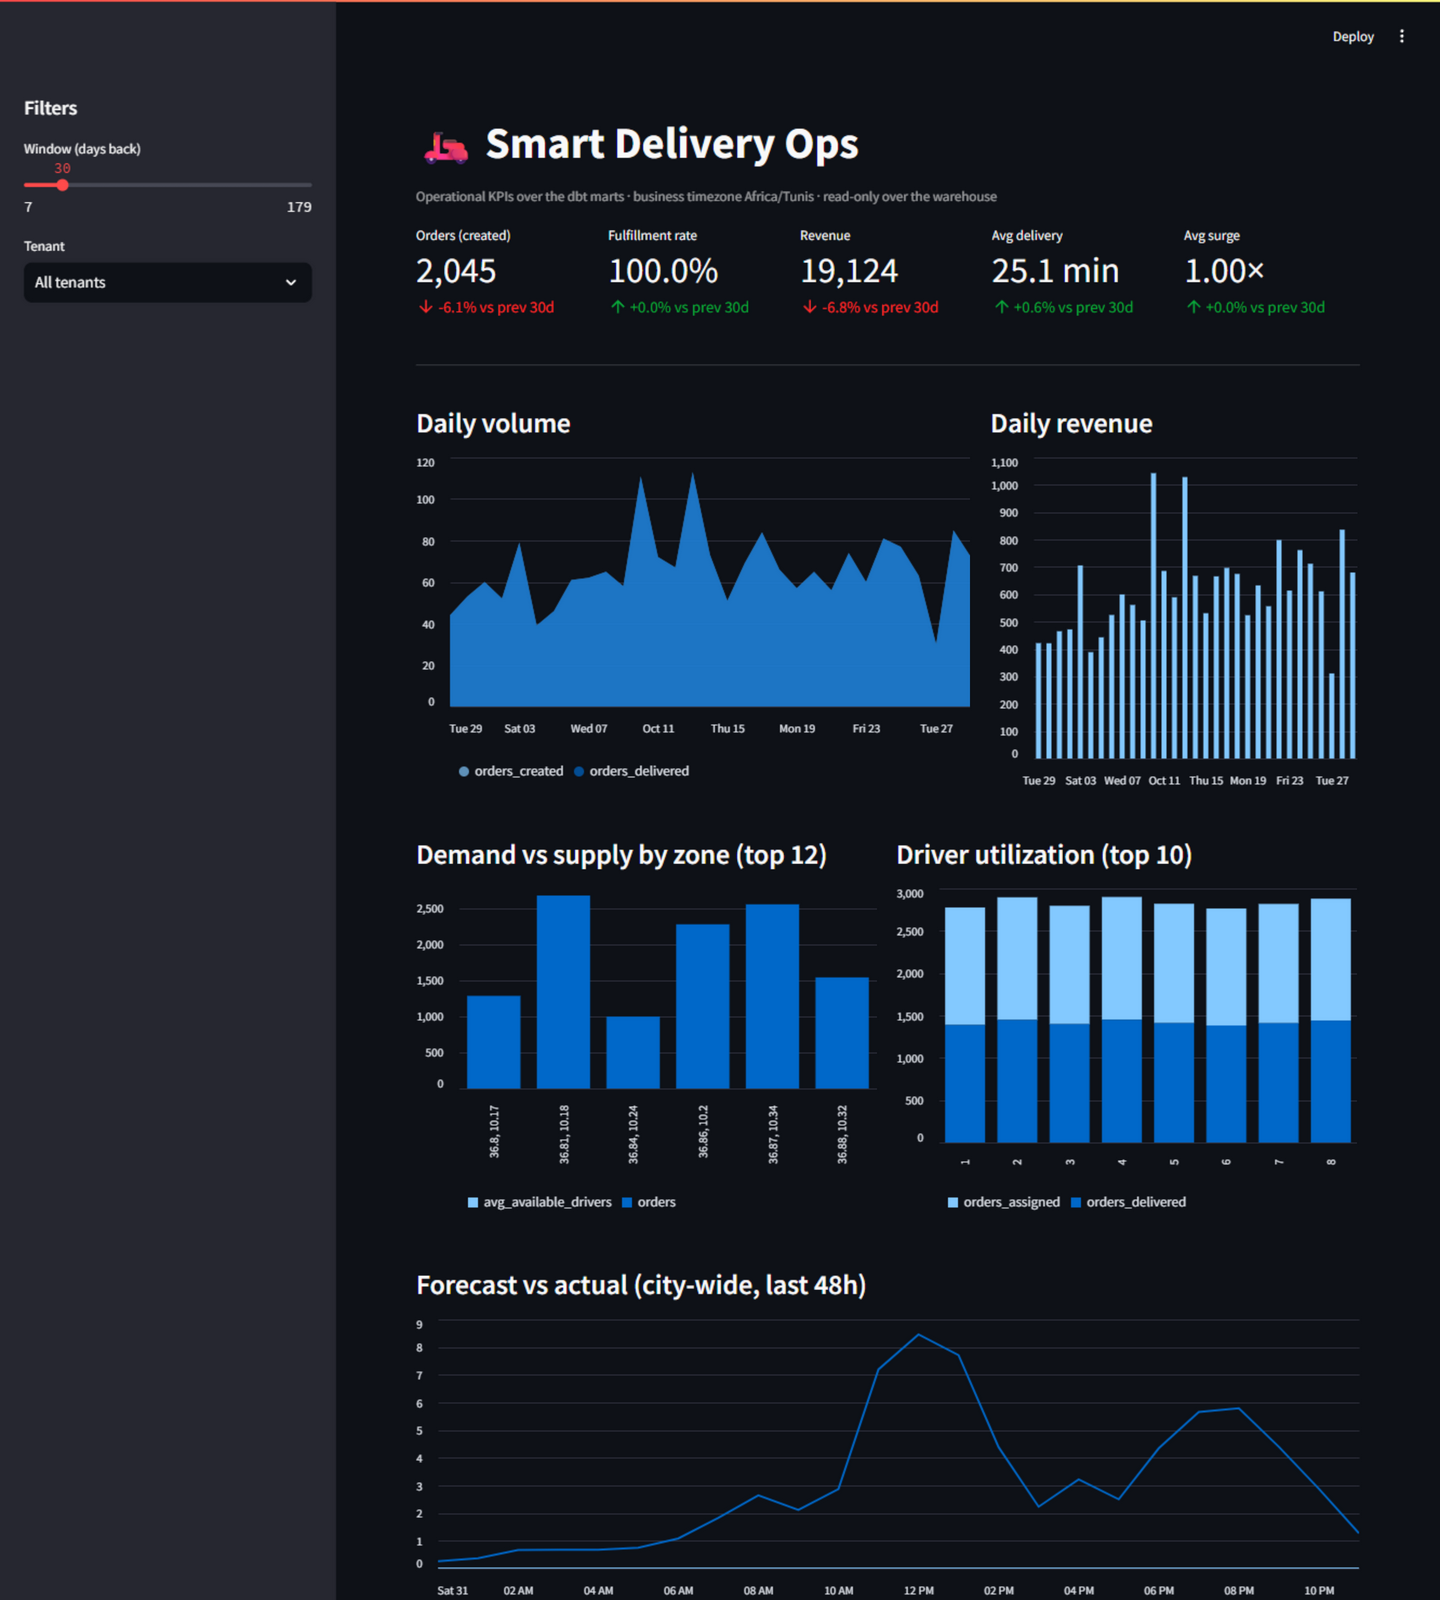
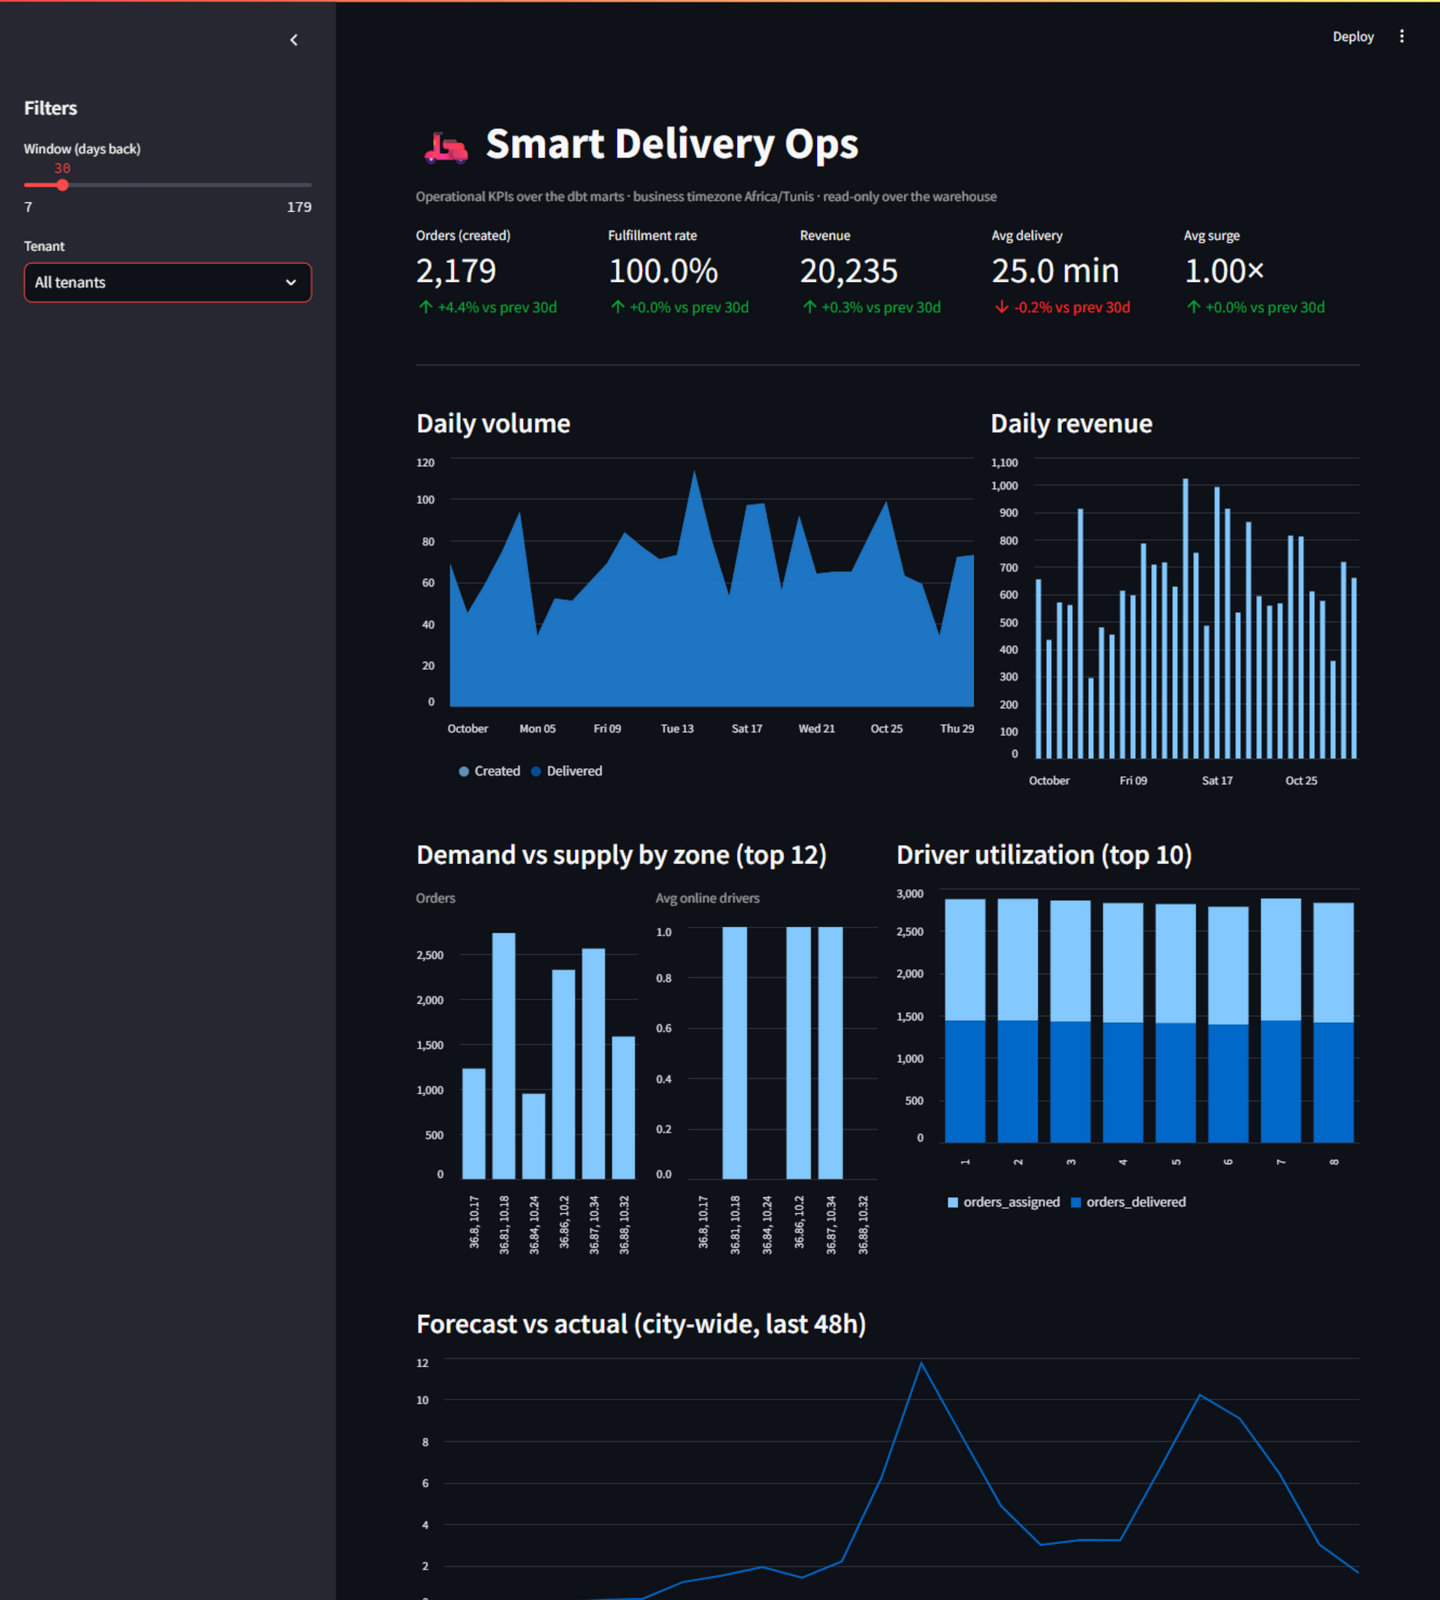
fix(dashboard): review findings - tenant scoping, supply backfill, forecast join, tz skew (#98)
- mart_tenant_daily carries full KPI semantics (avg delivery minutes, avg
  surge) so a selected tenant scopes every card; both duration-math sides
  are UTC instants now (the local-timestamp delivered CTE skewed minutes
  by 60); the date bucket stays local
- the backfill emits the fleet's driver availability transitions through
  the real pipeline: online at window start, offline during every outage
  window (zero-driver hours on the supply side), online after - supply
  history is real for the dashboard's demand-vs-supply view
- forecast-vs-actual merge casts zone keys to float on both sides (float8
  vs numeric joined to all-NaN actuals - one silent line)
- supply renders as its own scaled chart; volume legends read
  Created/Delivered; tenant query selects the full KPI semantics

diff --git a/dashboard/app.py b/dashboard/app.py
@@ -35,6 +35,11 @@ def _tenant_names() -> dict[int, str]:
 
 
 @st.cache_data(ttl=60)
+def _tenant_daily() -> pd.DataFrame:
+    return queries.tenant_daily(queries.warehouse_engine())
+
+
+@st.cache_data(ttl=60)
 def _zones() -> pd.DataFrame:
     return queries.demand_supply_by_zone(queries.warehouse_engine())
 
@@ -84,9 +89,33 @@ with st.sidebar:
     tenant_id = tenant_options[tenant_choice]
 
 # ── KPI cards (with previous-window deltas) ──────────────────────────────
-window = scoped
+# The tenant filter is REAL: a selected tenant scopes every card and the
+# volume/revenue charts to mart_tenant_daily; "All tenants" reads the
+# deployment-wide daily summary.
 prev_start = cutoff - pd.Timedelta(days=span)
-previous = daily[(dates >= prev_start) & (dates < cutoff)]
+prev_slice = (dates >= prev_start) & (dates < cutoff)
+if tenant_id is None:
+    window = scoped
+    previous = daily[prev_slice]
+    volume = window[["order_date", "orders_created", "orders_delivered", "revenue"]].rename(
+        columns={"orders_created": "Created", "orders_delivered": "Delivered"}
+    )
+else:
+    t_all = _tenant_daily()
+    t_dates = pd.to_datetime(t_all["business_date"])
+    window = t_all[(t_all["tenant_id"] == tenant_id) & (t_dates >= cutoff)].rename(
+        columns={
+            "business_date": "order_date",
+            "orders": "orders_created",
+            "delivered": "orders_delivered",
+        }
+    )
+    previous = t_all[
+        (t_all["tenant_id"] == tenant_id) & (t_dates >= prev_start) & (t_dates < cutoff)
+    ].rename(columns={"orders": "orders_created", "delivered": "orders_delivered"})
+    volume = window[["order_date", "orders_created", "orders_delivered", "revenue"]].rename(
+        columns={"orders_created": "Created", "orders_delivered": "Delivered"}
+    )
 
 
 def _kpi(label, current: float, prev: float, fmt="{:,.0f}", lower_is_better=False):
@@ -124,9 +153,7 @@ st.divider()
 left, right = st.columns([3, 2])
 with left:
     st.subheader("Daily volume")
-    vol = window.set_index(pd.to_datetime(window["order_date"]))[
-        ["orders_created", "orders_delivered"]
-    ]
+    vol = volume.set_index(pd.to_datetime(volume["order_date"]))[["Created", "Delivered"]]
     st.area_chart(vol)
 with right:
     st.subheader("Daily revenue")
@@ -141,9 +168,17 @@ with zcol:
     if tenant_id is not None:
         st.caption("zone view is deployment-wide (marts grain on zones)")
     if not zones.empty:
-        top = zones.head(12)
+        top = zones.head(12).copy()
         top["zone"] = top["zone_lat"].astype(str) + ", " + top["zone_lon"].astype(str)
-        st.bar_chart(top.set_index("zone")[["orders", "avg_available_drivers"]])
+        # two separately-scaled charts: an 8-driver fleet next to thousands
+        # of orders would render the supply bars invisible on a shared axis
+        zc1, zc2 = st.columns(2)
+        with zc1:
+            st.caption("Orders")
+            st.bar_chart(top.set_index("zone")[["orders"]])
+        with zc2:
+            st.caption("Avg online drivers")
+            st.bar_chart(top.set_index("zone")[["avg_available_drivers"]])
     else:
         st.info("No zone data yet.")
 with ucol:
@@ -176,10 +211,14 @@ else:
 if not t_scope.empty:
     tcol1, tcol2 = st.columns([2, 3])
     with tcol1:
-        per_tenant = t_scope.groupby(
-            t_scope["tenant_id"].map(lambda t: names.get(int(t), f"tenant {t}")), as_index=False
-        )["orders"].sum()
-        st.bar_chart(per_tenant.set_index(per_tenant.columns[0])["orders"])
+        per_tenant = (
+            t_scope.assign(
+                tenant=t_scope["tenant_id"].map(lambda t: names.get(int(t), f"tenant {t}"))
+            )
+            .groupby("tenant", as_index=False)["orders"]
+            .sum()
+        )
+        st.bar_chart(per_tenant.set_index("tenant")["orders"])
     with tcol2:
         st.dataframe(
             t_scope.rename(columns={"tenant_id": "tenant"})[

diff --git a/scripts/backfill_order_history.py b/scripts/backfill_order_history.py
@@ -52,7 +52,15 @@ from sqlalchemy.orm import sessionmaker  # noqa: E402
 from core.config import get_settings  # noqa: E402
 from core.database import engine  # noqa: E402
 from domain.city_config import CityConfig, ensure_business_timezone, load_city_config  # noqa: E402
-from domain.models import Customer, Driver, Order, OrderEvent, OrderStatus, Restaurant  # noqa: E402
+from domain.models import (  # noqa: E402
+    Customer,
+    Driver,
+    DriverEvent,
+    Order,
+    OrderEvent,
+    OrderStatus,
+    Restaurant,
+)
 from domain.services import eta_service, pricing_service  # noqa: E402
 
 # Local business hours derive in the configured BUSINESS_TIMEZONE (#78)
@@ -263,6 +271,47 @@ def build_order(
     )
 
 
+def backfill_driver_supply(
+    session, rng: random.Random, drivers, noise: dict, start_local: datetime, end_local: datetime
+) -> int:
+    """Availability history for the supply marts (#27 review, #86's outage
+    scope made real on the supply side): each driver comes online at the
+    window start from their seeded position, the FLEET goes offline during
+    every outage window (zero-driver hours, matching the demand-side
+    suppression) and back online after, and the final state is ONLINE so
+    the interval carries to now exactly like live drivers would. Payloads
+    mirror driver_event_service.record_availability + the tenant envelope.
+    """
+    emitted = 0
+    for driver in drivers:
+        transitions = [(start_local, True)]
+        for outage_start, outage_end in noise["outages"]:
+            if outage_start <= start_local or outage_end >= end_local:
+                continue
+            transitions.append((outage_start, False))
+            transitions.append((outage_end, True))
+        transitions.sort(key=lambda t: t[0])
+        for at_local, to_available in transitions:
+            session.add(
+                DriverEvent(
+                    tenant_id=driver.tenant_id,
+                    driver_id=driver.id,
+                    event_type="availability",
+                    payload={
+                        "tenant_id": driver.tenant_id,
+                        "from_available": None,
+                        "to_available": to_available,
+                        "latitude": driver.latitude,
+                        "longitude": driver.longitude,
+                    },
+                    created_at=local_to_utc(at_local),
+                )
+            )
+            emitted += 1
+    session.commit()
+    return emitted
+
+
 def backfill(days: int, seed: int, config: CityConfig) -> None:
     # The environment zone is what dbt grains and ML features derive in;
     # writing a city's history under a different zone would mis-grain it.
@@ -340,9 +389,12 @@ def backfill(days: int, seed: int, config: CityConfig) -> None:
                 print(f"  {day + 1}/{days} days, {total_orders} orders")
         session.commit()
 
+        driver_events = backfill_driver_supply(session, rng, drivers, noise, start_local, now_local)
+
         print(
             f"Backfilled {total_orders} delivered orders over {days} days "
-            f"({start_local:%Y-%m-%d} → {day_local:%Y-%m-%d} local), seed={seed}."
+            f"({start_local:%Y-%m-%d} → {day_local:%Y-%m-%d} local), seed={seed}, "
+            f"plus {driver_events} driver availability transitions."
         )
         print(
             "Next: the running relay/ingest drain them (watch `docker compose logs "

diff --git a/dashboard/queries.py b/dashboard/queries.py
@@ -55,7 +55,8 @@ def tenant_daily(wh: Engine) -> pd.DataFrame:
     return _read(
         wh,
         """
-        select tenant_id, business_date, orders, delivered, revenue, fulfillment_pct
+        select tenant_id, business_date, orders, delivered, revenue, fulfillment_pct,
+               avg_delivery_minutes, avg_surge_multiplier
         from analytics.mart_tenant_daily
         order by business_date
         """,
@@ -136,6 +137,12 @@ def forecast_vs_actual(
     ).dt.tz_convert(business_timezone)
     forecasts["business_hour"] = forecasts["local_hour"].dt.hour
     forecasts["business_date"] = forecasts["local_hour"].dt.date.astype(str)
+    # the two sides store zone coordinates in different types (float8 vs
+    # numeric) — the merge keys must match exactly or every actual comes
+    # back NaN and the chart silently shows one line
+    for frame in (forecasts, actuals):
+        frame["zone_lat"] = frame["zone_lat"].astype(float)
+        frame["zone_lon"] = frame["zone_lon"].astype(float)
     actuals["business_date"] = actuals["business_date"].astype(str)
     merged = forecasts.merge(
         actuals, on=["zone_lat", "zone_lon", "business_date", "business_hour"], how="left"
